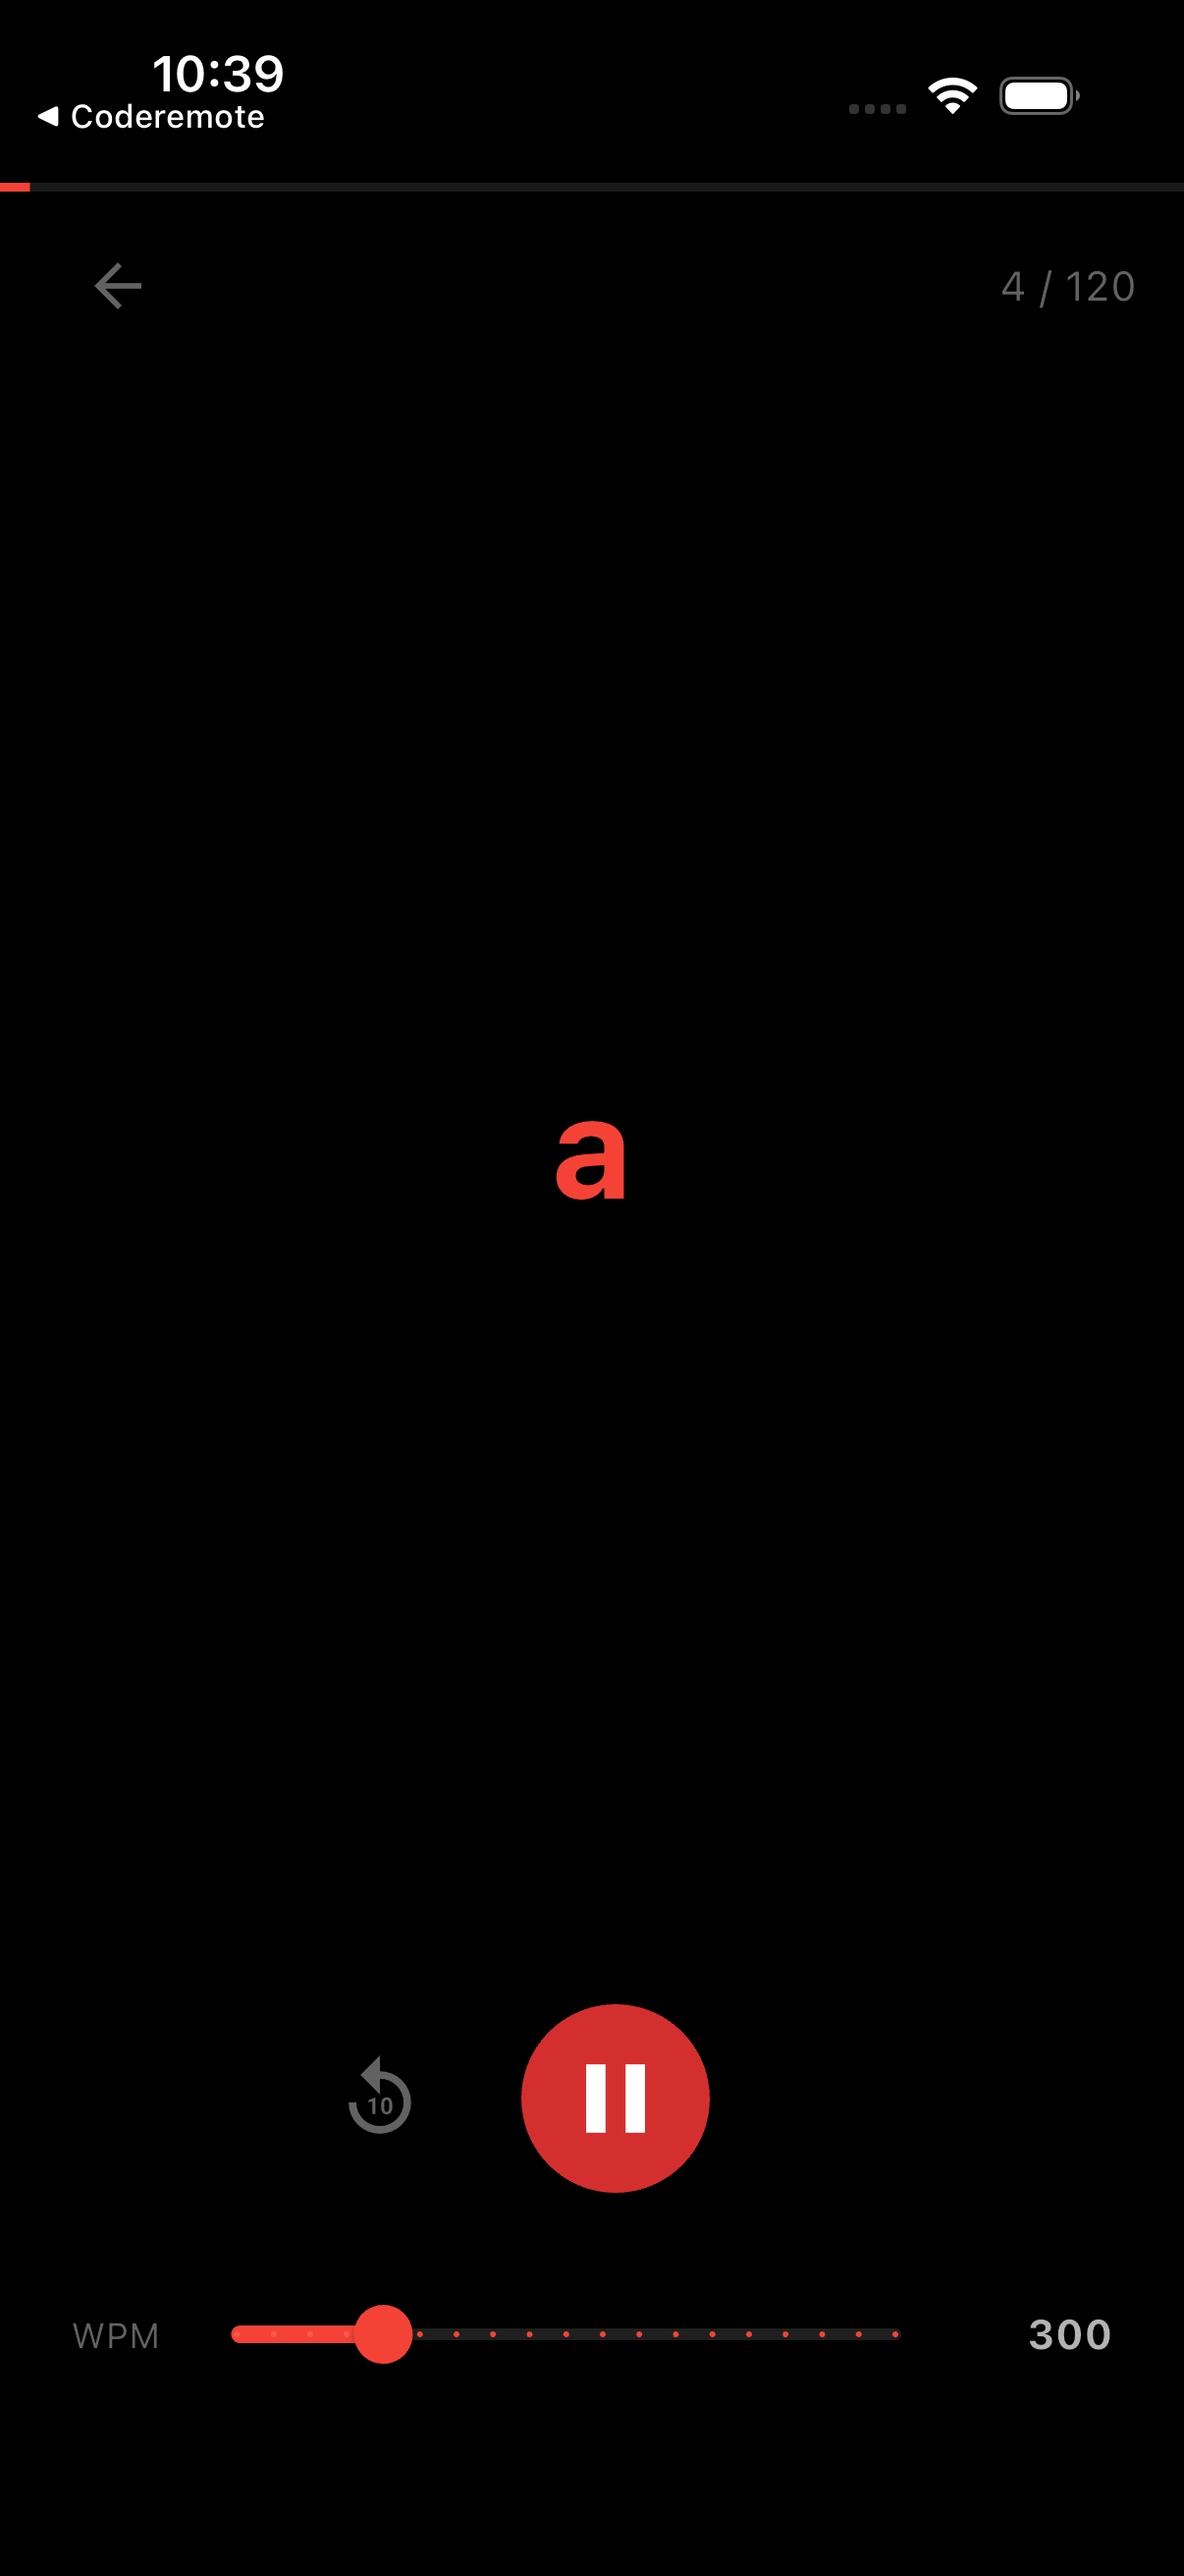
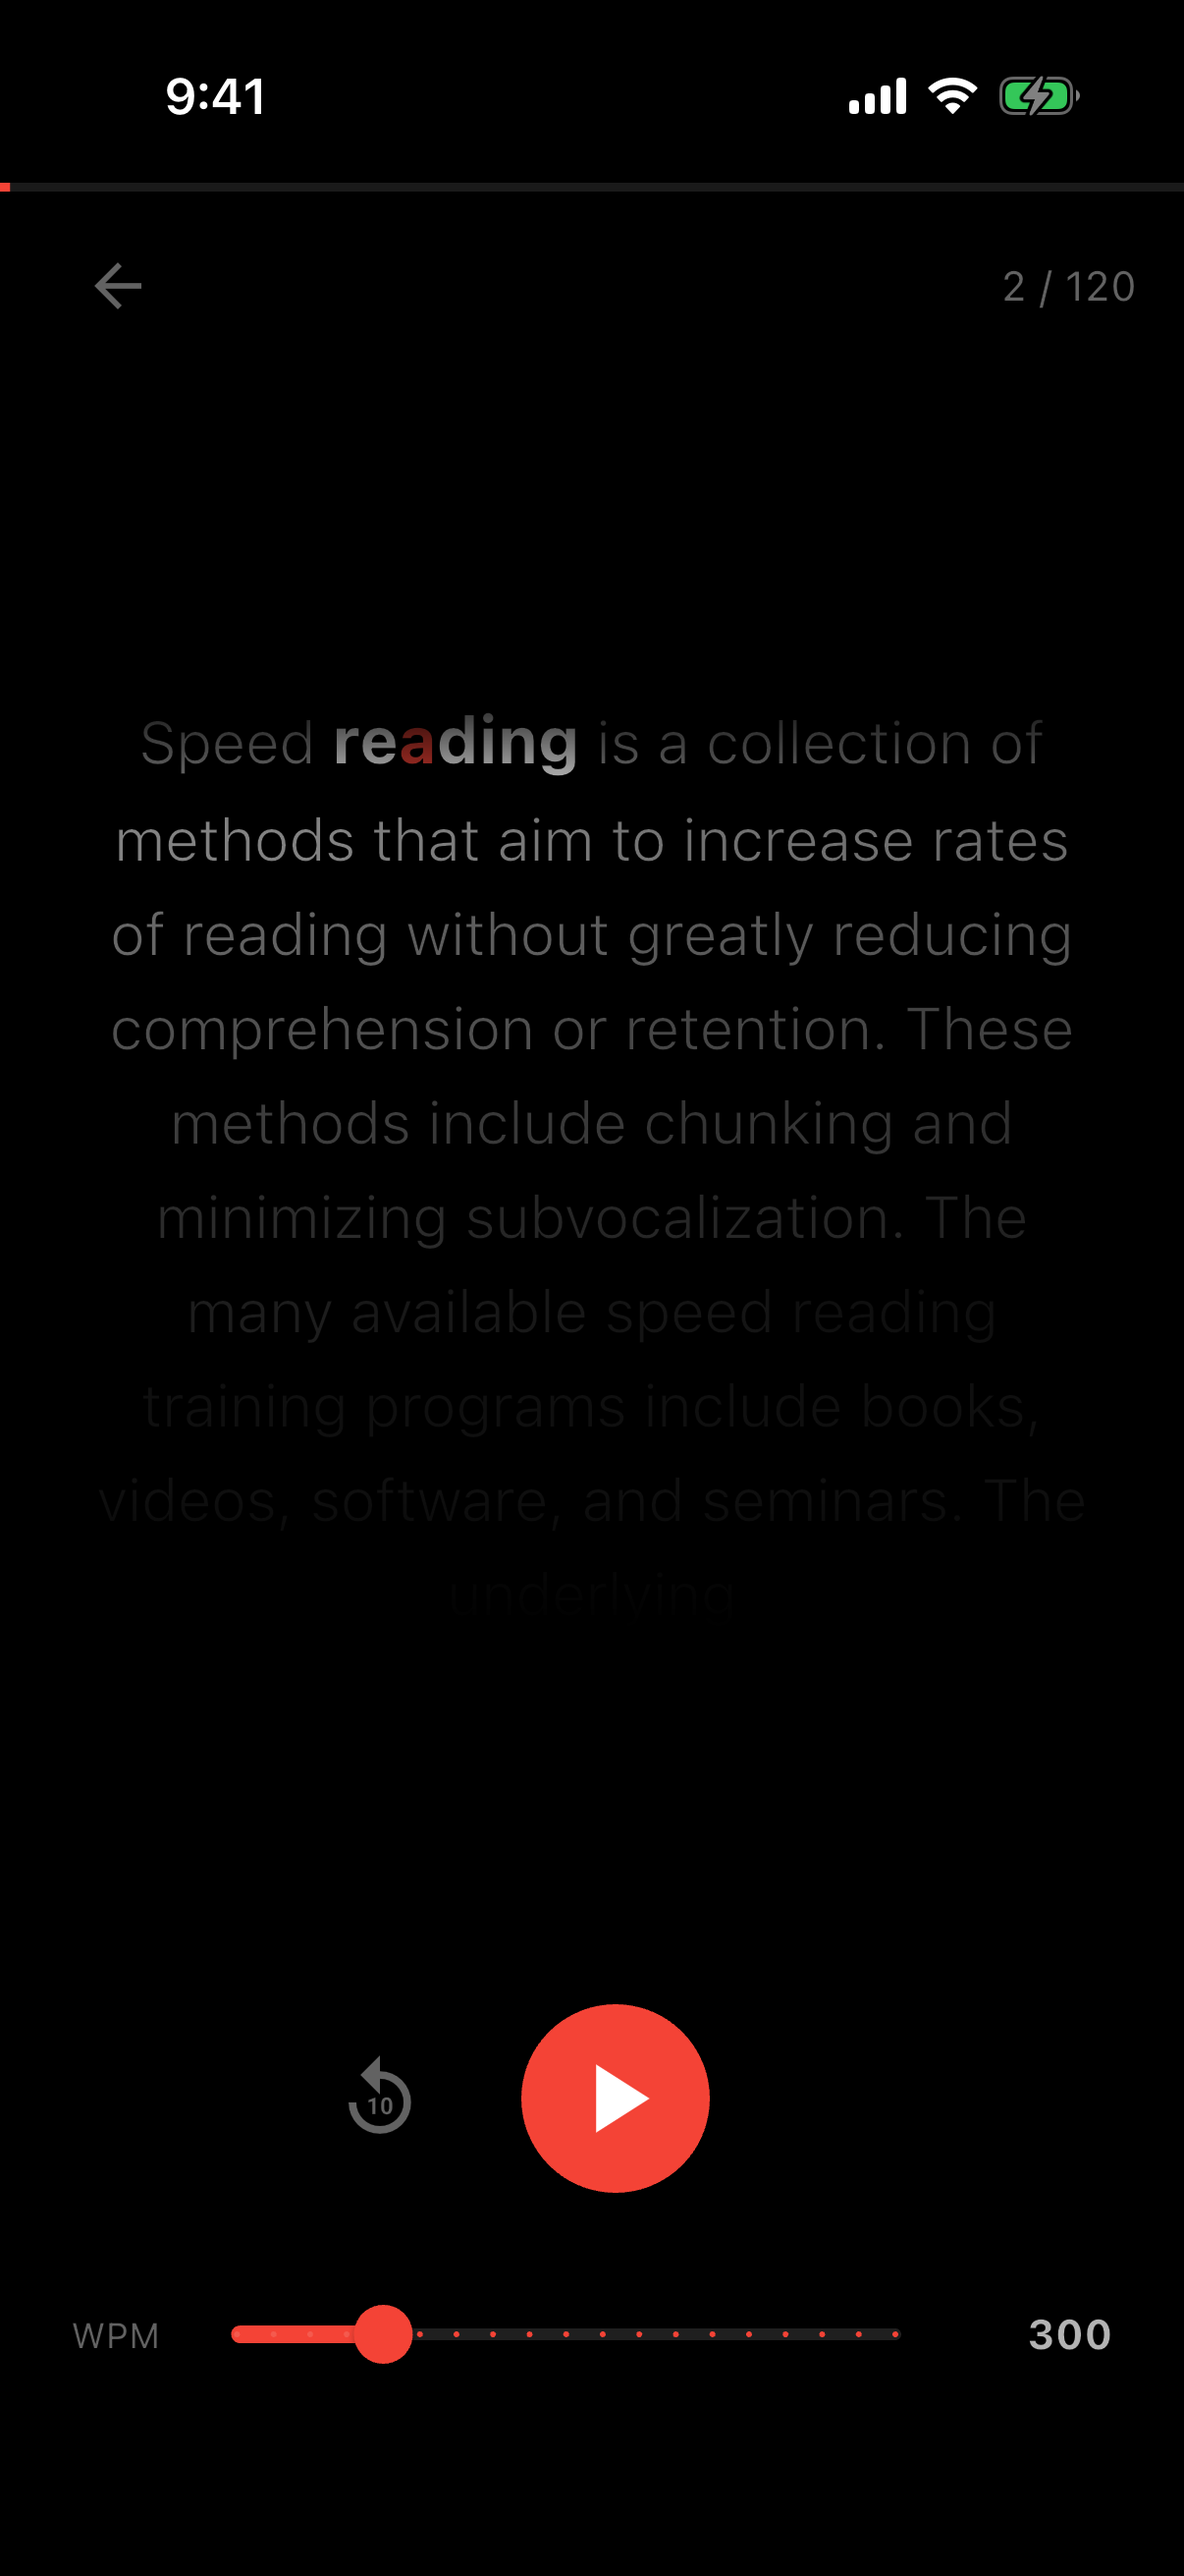
Fix back button to pause first, clean screenshots with 'reading' word

diff --git a/lib/main.dart b/lib/main.dart
@@ -314,6 +314,7 @@ class ReaderScreen extends HookWidget {
                   IconButton(
                     icon: const Icon(Icons.arrow_back, color: Colors.white38),
                     onPressed: () {
+                      model.stopPlaying();
                       model.reset();
                       model.setText('');
                     },

diff --git a/screenshots/frame_screenshots.py b/screenshots/frame_screenshots.py
@@ -18,7 +18,7 @@ CANVAS_W, CANVAS_H = 1290, 2796
 # Marketing text for each screenshot
 screens = [
     {
-        'file': '06_playing_word2.png',
+        'file': '04_playing.png',
         'headline': 'Read 3x Faster',
         'subline': 'One word at a time. Laser focus.',
         'bg_top': '#1A0A0A',
@@ -35,8 +35,8 @@ screens = [
     },
     {
         'file': '03_reading.png',
-        'headline': 'Smart Word Timing',
-        'subline': 'Longer words linger. Short ones fly.',
+        'headline': 'Your Speed, Your Way',
+        'subline': 'Adjust from 100 to 1,000 words per minute.',
         'bg_top': '#0A1A1A',
         'bg_bottom': '#0A0A1A',
         'accent': '#FF3B30',
